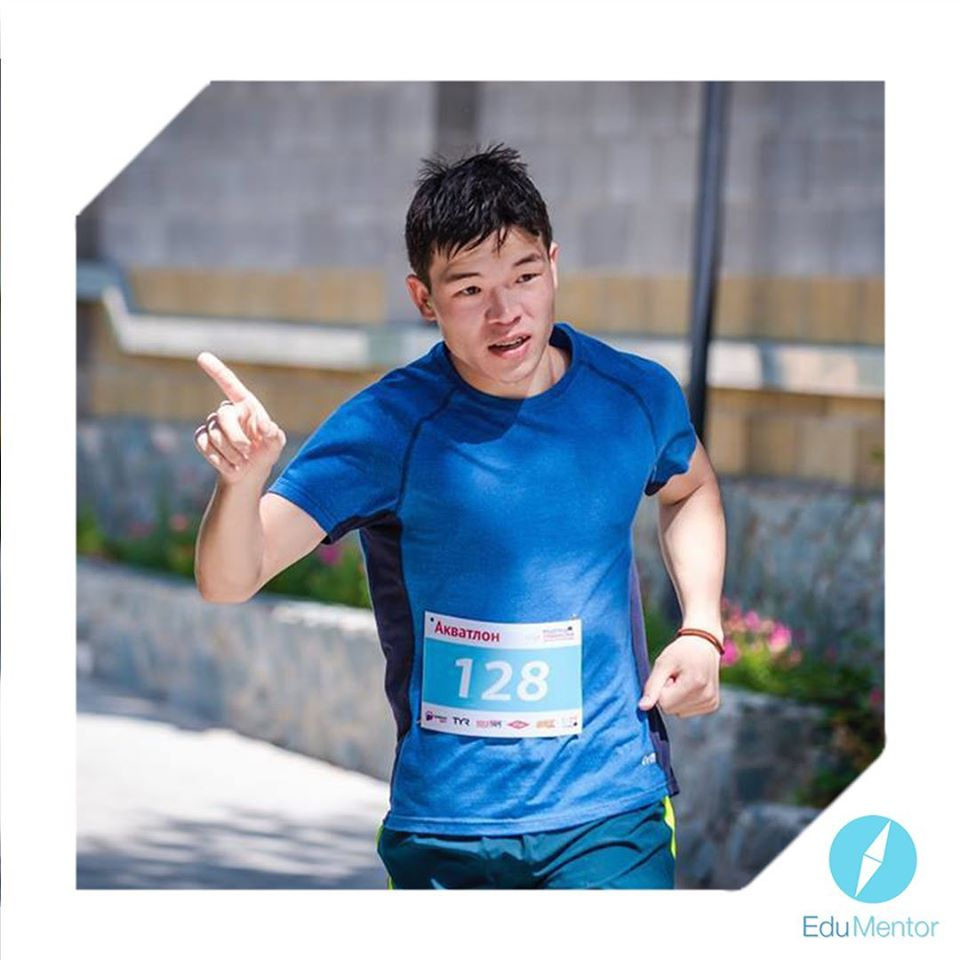
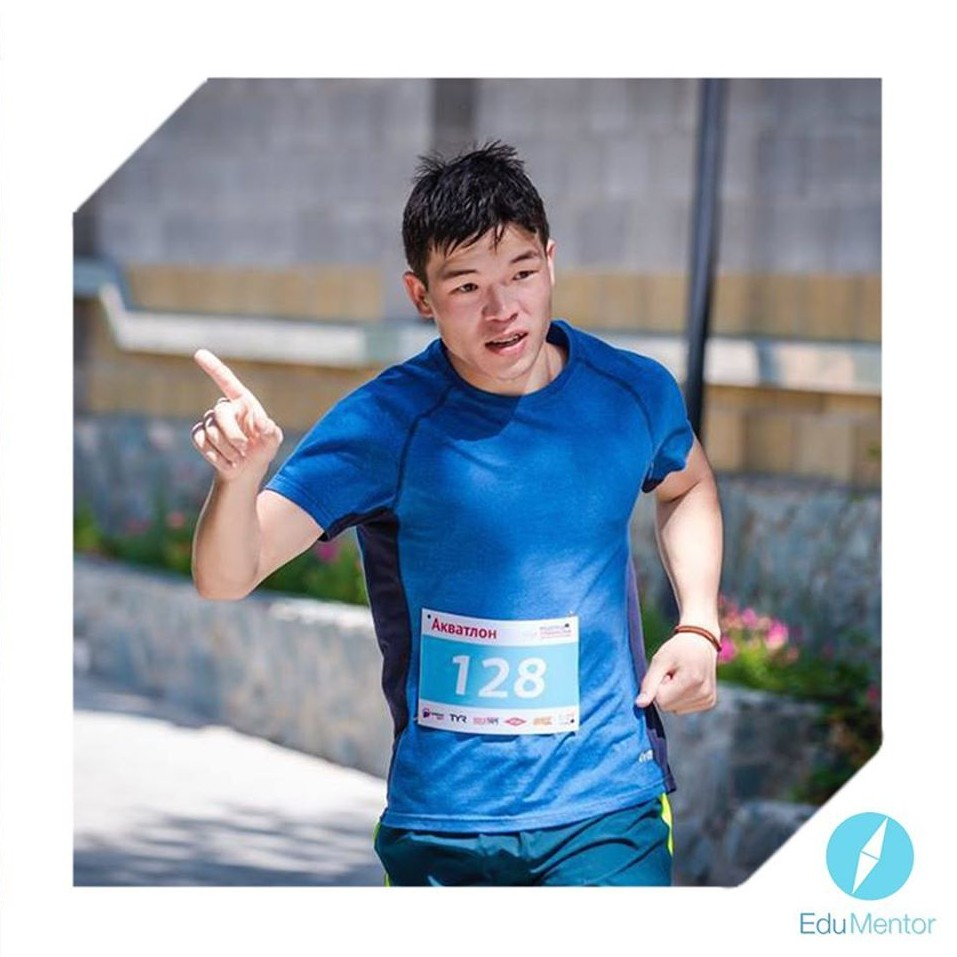
Fix image names

diff --git a/src/app/mentors/mentors.component.ts b/src/app/mentors/mentors.component.ts
@@ -44,14 +44,14 @@ export class MentorsComponent implements OnInit {
         id: 1,
         name: "Олья Пыхова",
         background: "Участник программ FLEX и U.S. - CAEF",
-        photoUrl: "olya_pykhova.png",
+        photoUrl: "olya_pykhova.jpg",
         facebookUrl: "https://www.facebook.com/olya.pyhova"
       },
       {
         id: 2,
         name: "Максат Алымкулов",
         background: "Аудитор в KPMG",
-        photoUrl: "maksat_alymbek.png",
+        photoUrl: "maksat_alymbek.jpg",
         facebookUrl: "https://www.facebook.com/maksat.alymkulov.3/",
         linkedinUrl: "http://linkedin.com/in/maksat-alymkulov-132458120"
       },
@@ -80,7 +80,7 @@ export class MentorsComponent implements OnInit {
         id: 6,
         name: "Дима Ким",
         background: 'Иллюзионист в шоу фокусников “Great Magic"',
-        photoUrl: "dima_kim.png",
+        photoUrl: "dima_kim.jpg",
         instagramUrl: "https://www.instagram.com/focus.kg/",
         facebookUrl: "https://www.facebook.com/Kimd1997"
       },
@@ -120,14 +120,14 @@ export class MentorsComponent implements OnInit {
         name: "Эрлан Жапаров",
         background:
           'Координатор бизнес-инкубатора "На Пределе" и бизнес-ивента "ГраблиNight"',
-        photoUrl: "erlan_zhaparov.png",
+        photoUrl: "erlan_zhaparov.jpg",
         facebookUrl: "https://www.facebook.com/ZhaparovErlan"
       },
       {
         id: 12,
         name: "Айдай Чекирова",
         background: "Журналист в финансово-информационном портале «Акчабар»",
-        photoUrl: "aidai_chekirova.png",
+        photoUrl: "aidai_chekirova.jpg",
         facebookUrl: "http://facebook.com/chekirova.aidai"
       },
       {
@@ -141,7 +141,7 @@ export class MentorsComponent implements OnInit {
         id: 14,
         name: "Канат Ногойбаев",
         background: 'Специалист по связям с общественностью и коммуникациям в “Coca Cola"',
-        photoUrl: "kanat_nogoibaev.png",
+        photoUrl: "kanat_nogoibaev.jpg",
         facebookUrl: "https://www.facebook.com/people/%D0%9A%D0%B0%D0%BD%D0%B0%D1%82-%D0%9D%D0%BE%D0%B3%D0%BE%D0%B9%D0%B1%D0%B0%D0%B5%D0%B2/100003951158429"
       },
       {
@@ -177,14 +177,14 @@ export class MentorsComponent implements OnInit {
         id: 19,
         name: "Гулиза Алмазбек",
         background: 'Специалист отдела маркетинга в “Coca Cola"',
-        photoUrl: "guliza_almazbek.png",
+        photoUrl: "guliza_almazbek.jpg",
         facebookUrl: "https://www.facebook.com/guliza.almazbekova"
       },
       {
         id: 20,
         name: "Айбек Аскарбеков",
         background: '”Master of human rights and democratization” в Centre for European Studies, Yerevan State University',
-        photoUrl: "aibek_askarbekov.png",
+        photoUrl: "aibek_askarbekov.jpg",
         facebookUrl: "https://www.facebook.com/askarbekovaibek"
       },
       {

diff --git a/src/app/mentors/mentors.component.css b/src/app/mentors/mentors.component.css
@@ -33,20 +33,10 @@
 }
 
 .avatar {
-  /* This image is 687 wide by 1024 tall, similar to your aspect ratio */
-  background-image: url("assets/images/mentorUrl.jpg");
-
-  /* make a square container */
   width: 250px;
   height: 250px;
-
-  /* fill the container, preserving aspect ratio, and cropping to fit */
   background-size: cover;
-
-  /* center the image vertically and horizontally */
   background-position: top center;
-
-  /* round the edges to a circle with border radius 1/2 container size */
   border-radius: 5px;
   margin: auto;
 }
